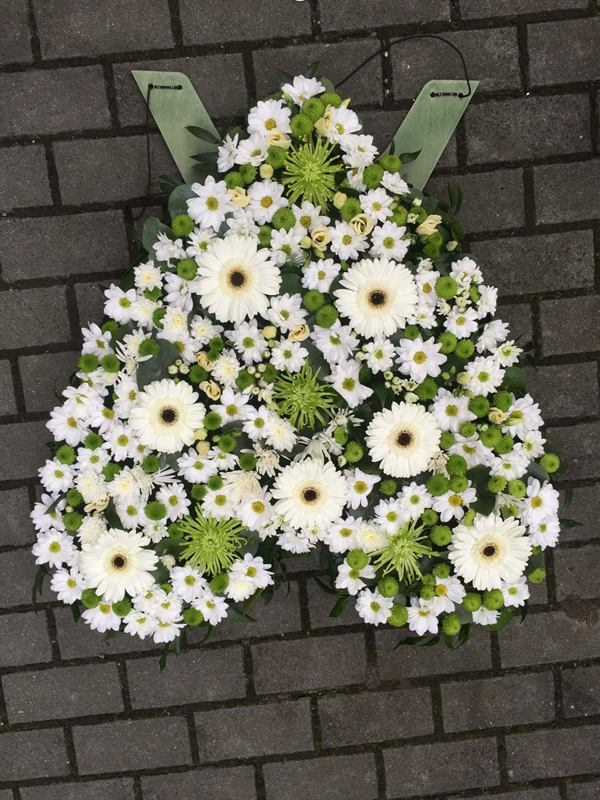
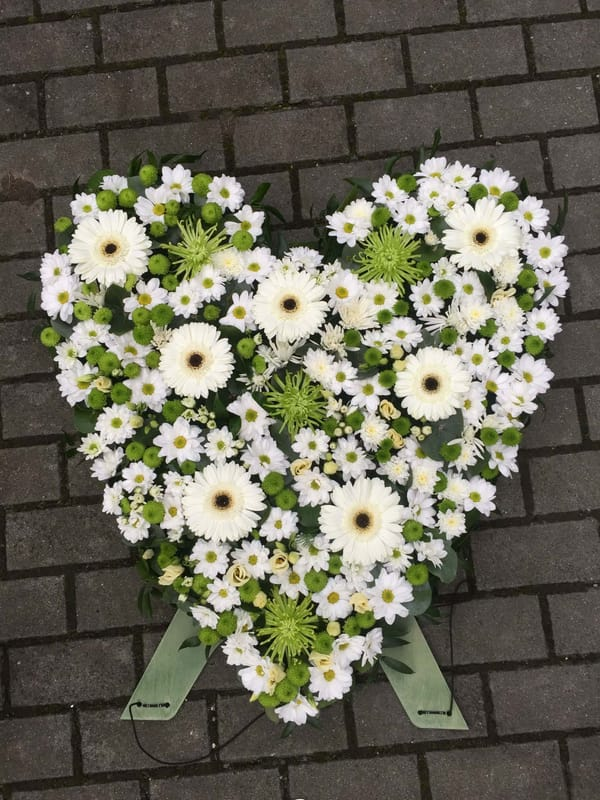
Galerie: otočit smuteční srdce o 180° a opravit popisek
Originál fotky (fotky/foto_27.jpg) je vyfocený vzhůru nohama; obě velikosti
jsou znovu vytvořené otočené. Popisek nově „Smuteční srdce z bílých gerber
a kopretin na stojanu“.

diff --git a/lib/content.ts b/lib/content.ts
@@ -125,7 +125,7 @@ export const galleryGroups: GalleryGroup[] = [
     photos: [
       img("smutecni-srdce", 1000, 1334, "Vypichované smuteční srdce z bílých a růžových gerber a chryzantém", "Rozloučení"),
       img("smutecni-venec-stuha", 1200, 1600, "Smuteční věnec s černou stuhou z barevných chryzantém, kal a gerber", "Rozloučení"),
-      img("smutecni-kopretiny", 1200, 1600, "Smuteční vazba z kopretin a polních květů", "Rozloučení"),
+      img("smutecni-kopretiny", 1200, 1600, "Smuteční srdce z bílých gerber a kopretin na stojanu", "Rozloučení"),
       img("smutecni-venec-barevny", 1200, 1600, "Barevný smuteční věnec bez tmavé klasiky", "Rozloučení"),
       img("smutecni-venec", 1200, 1600, "Smuteční věnec ze zeleně a bílých květů", "Rozloučení"),
     ],
